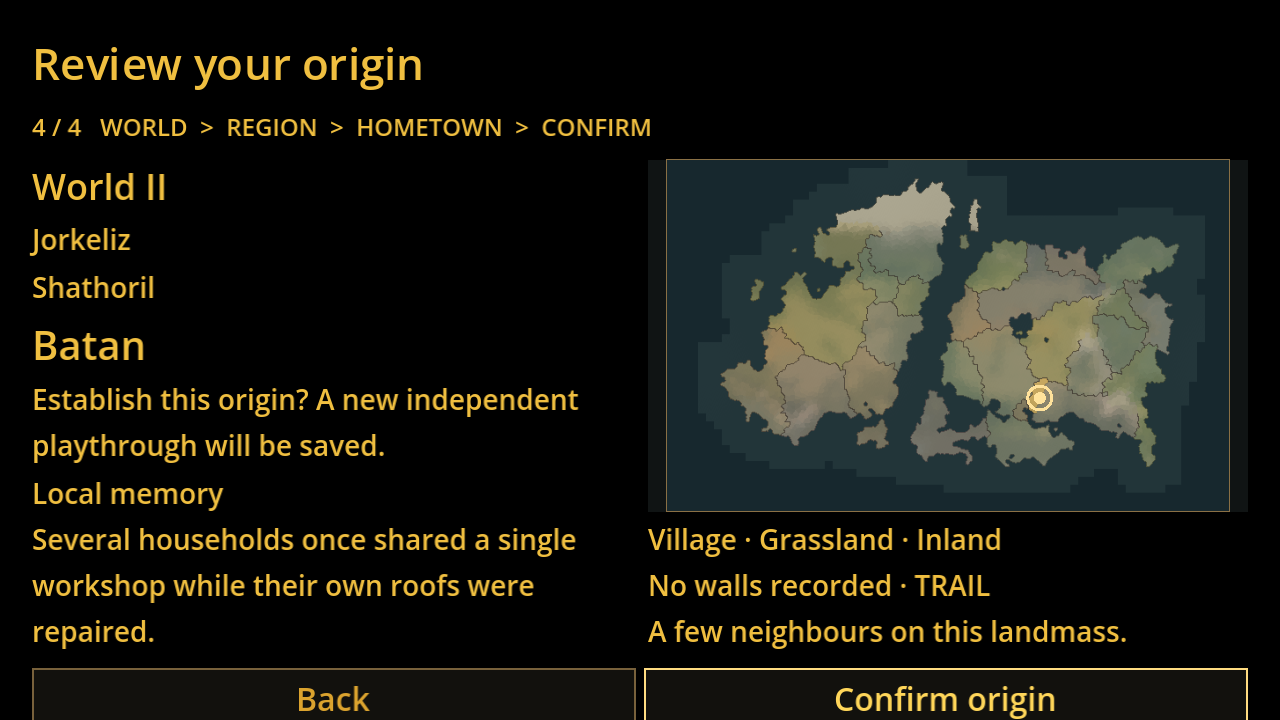
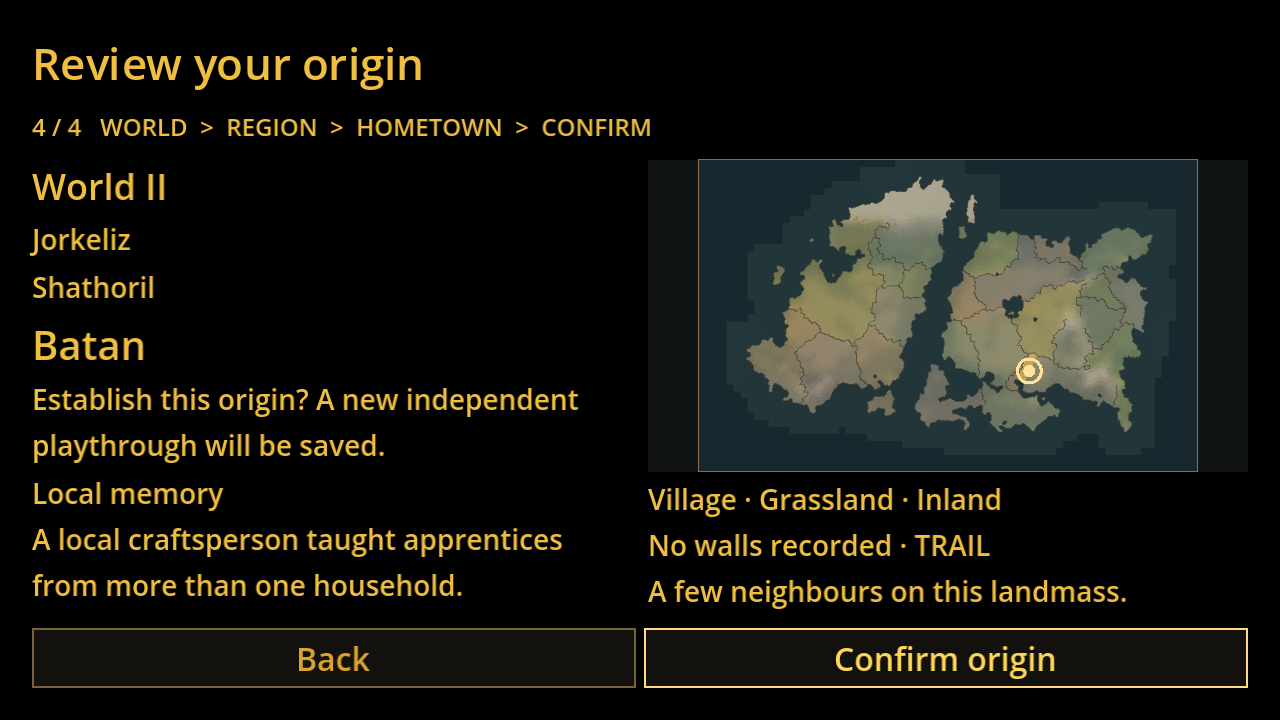
GAME-77 render typed origin events from the final independent framework

diff --git a/research/game77-integration/README.md b/research/game77-integration/README.md
@@ -21,7 +21,7 @@ sentence to fit the approved 640×360 layout. No UI invents prose dynamically.
 
 `data/manifest.json` pins core source modules, projection digest and renderer
 variant. To reproduce, check out core commit
-`325799cca5d082d6c05d3c589c13c18fc91cd4e1` in a separate directory, then run:
+`c2510d864b841d01d71d6bbd52996a4a0efbd15c` in a separate directory, then run:
 
 ```
 worldgen-helper/node research/game77-integration/generate-demo.mjs /path/to/core-checkout
@@ -33,3 +33,15 @@ vendor experiment/framework or unrelated files are copied into this UI draft.
 Tests and actual screenshots under evidence demonstrate public-only payload,
 wrong identity/digest rejection, unchanged factual context, confirmation/save
 handoff, Back and missing-lore fallback. Prepared Linear update lives below.
+
+Final proof uses corrected core generator trhgd-staged-4. Source-backed roads,
+trails and sea routes are distinct; a sea route is never a road. The active
+immutable sidecars are selected by manifest.world_sidecars; initial v1 trial
+files are retained as research history, not read by the current UI/test.
+Renderer trhgd-text-2/memory-concise shortens the stored memory sentence without adding facts
+to preserve space on the approved screen. No stored fact is rewritten.
+
+Current origin state is typed event/actors/outcome/period plus structured
+tradition. Public wording is rendered by the pinned core renderer; source
+route IDs report parent-cell membership, not claimed direct entrances.
+Draft review: https://github.com/marksprietsma-beep/road-has-gone-dark/pull/60.
